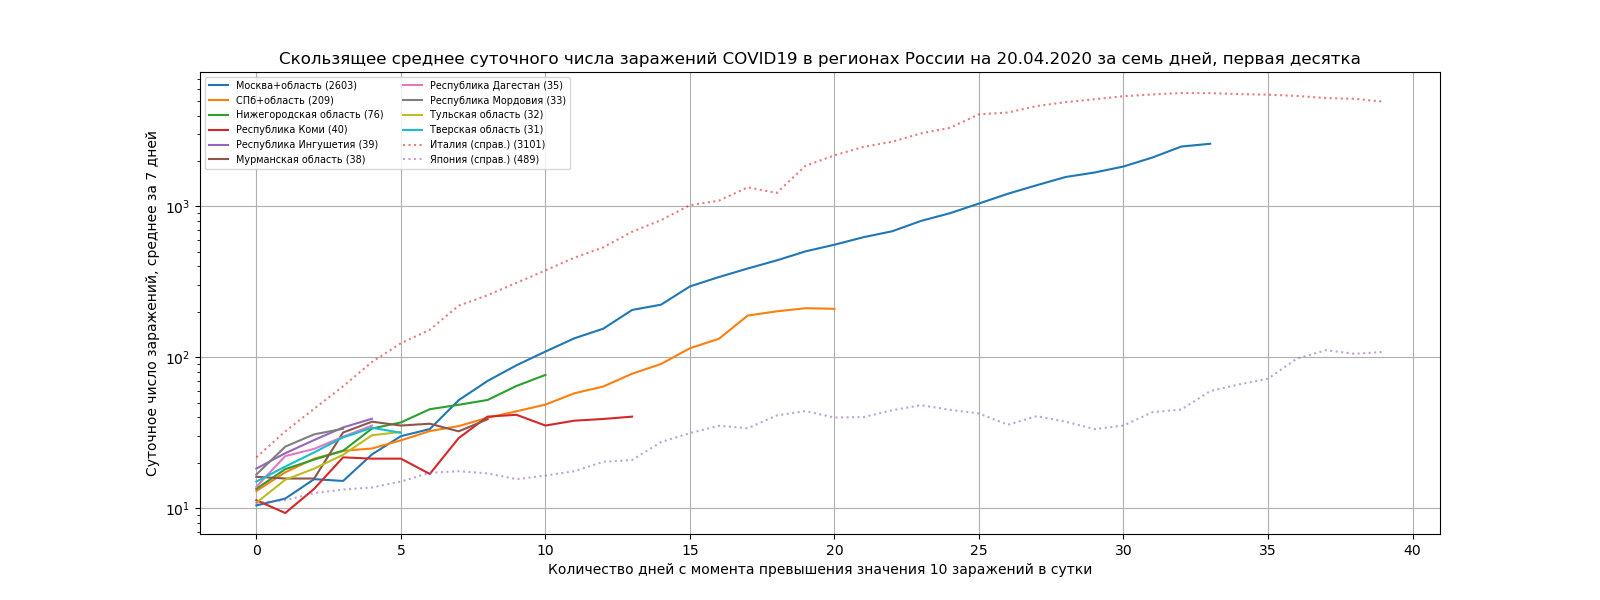
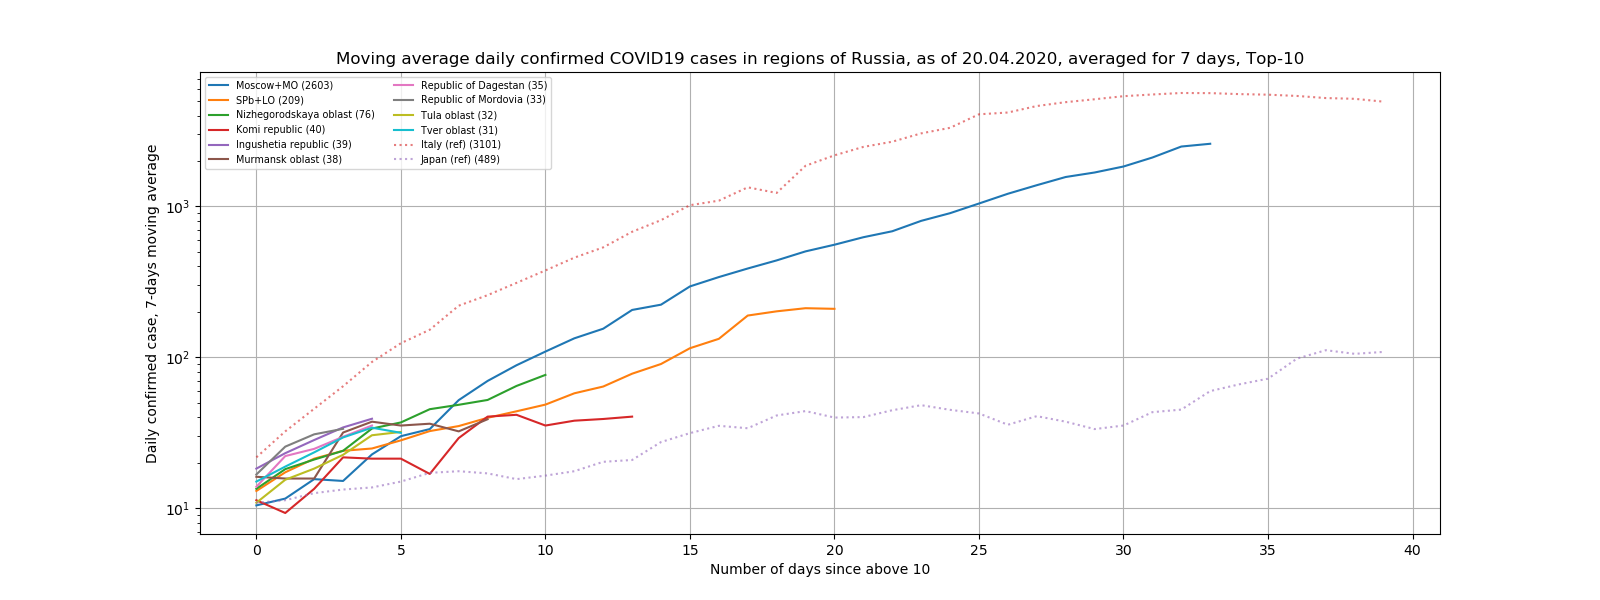
Fix reordered plots

diff --git a/python3/plot.py b/python3/plot.py
@@ -12,9 +12,9 @@ def plot_all():
   plot(show=True, save_name='ruscovid_ru_10_20.png', labels_in_russian=True,
        min_threshold=30, rng=(10,20), title_suffix=', места 11..21')
 
-  plot_sliding(show=True, save_name='ruscovid_ru_ma.png', labels_in_russian=False,
+  plot_sliding(show=True, save_name='ruscovid_ma.png', labels_in_russian=False,
        min_threshold=10, rng=(None,10), title_suffix=', Top-10')
-  plot_sliding(show=True, save_name='ruscovid_ma.png', labels_in_russian=True,
+  plot_sliding(show=True, save_name='ruscovid_ru_ma.png', labels_in_russian=True,
        min_threshold=10, rng=(None,10), title_suffix=', первая десятка')
 if __name__ == '__main__':
   plot_all()
